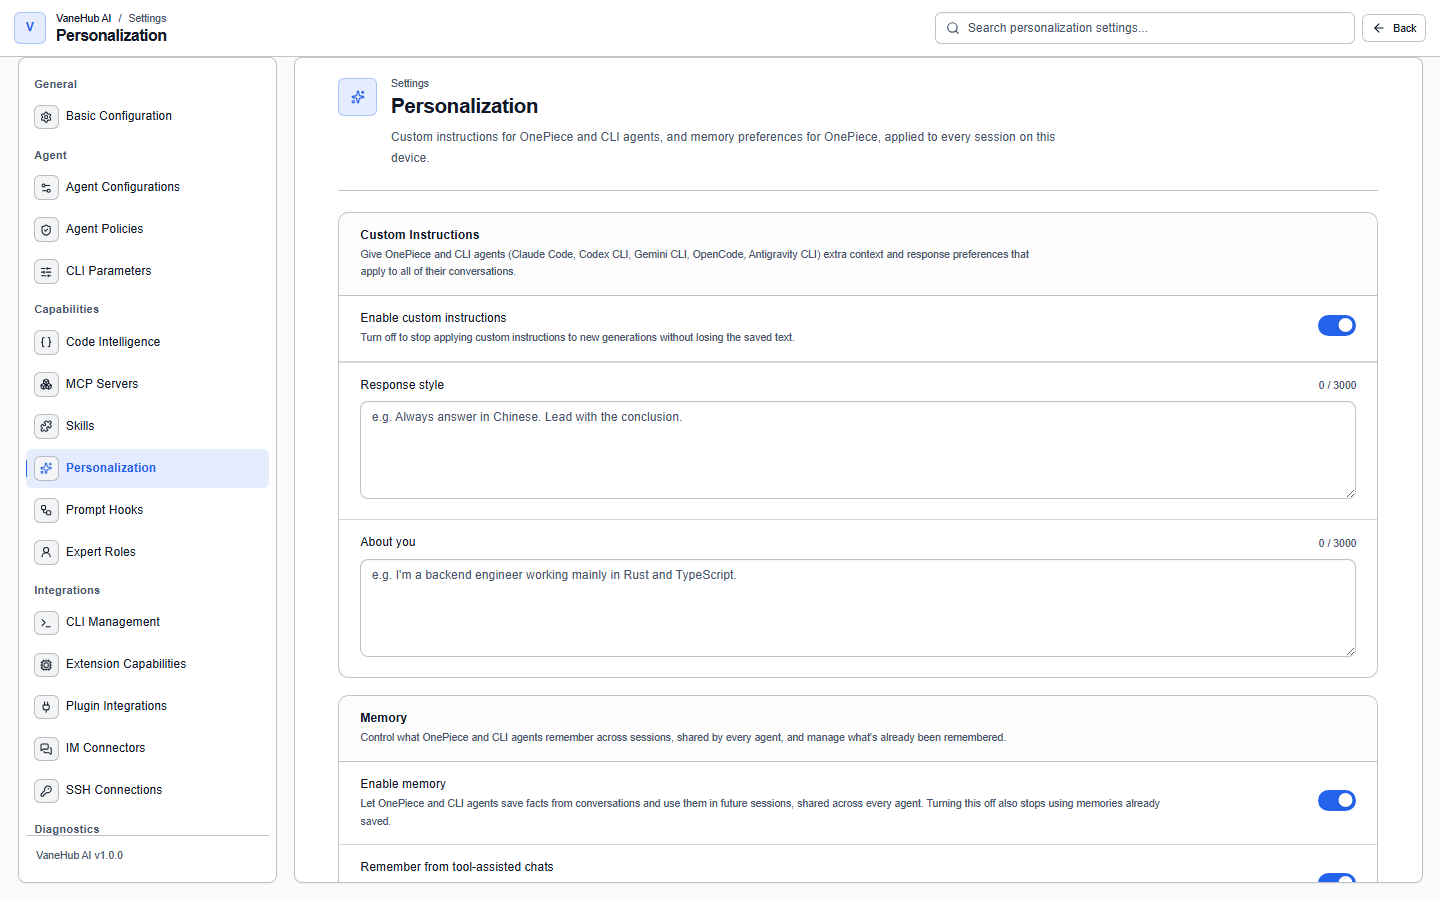
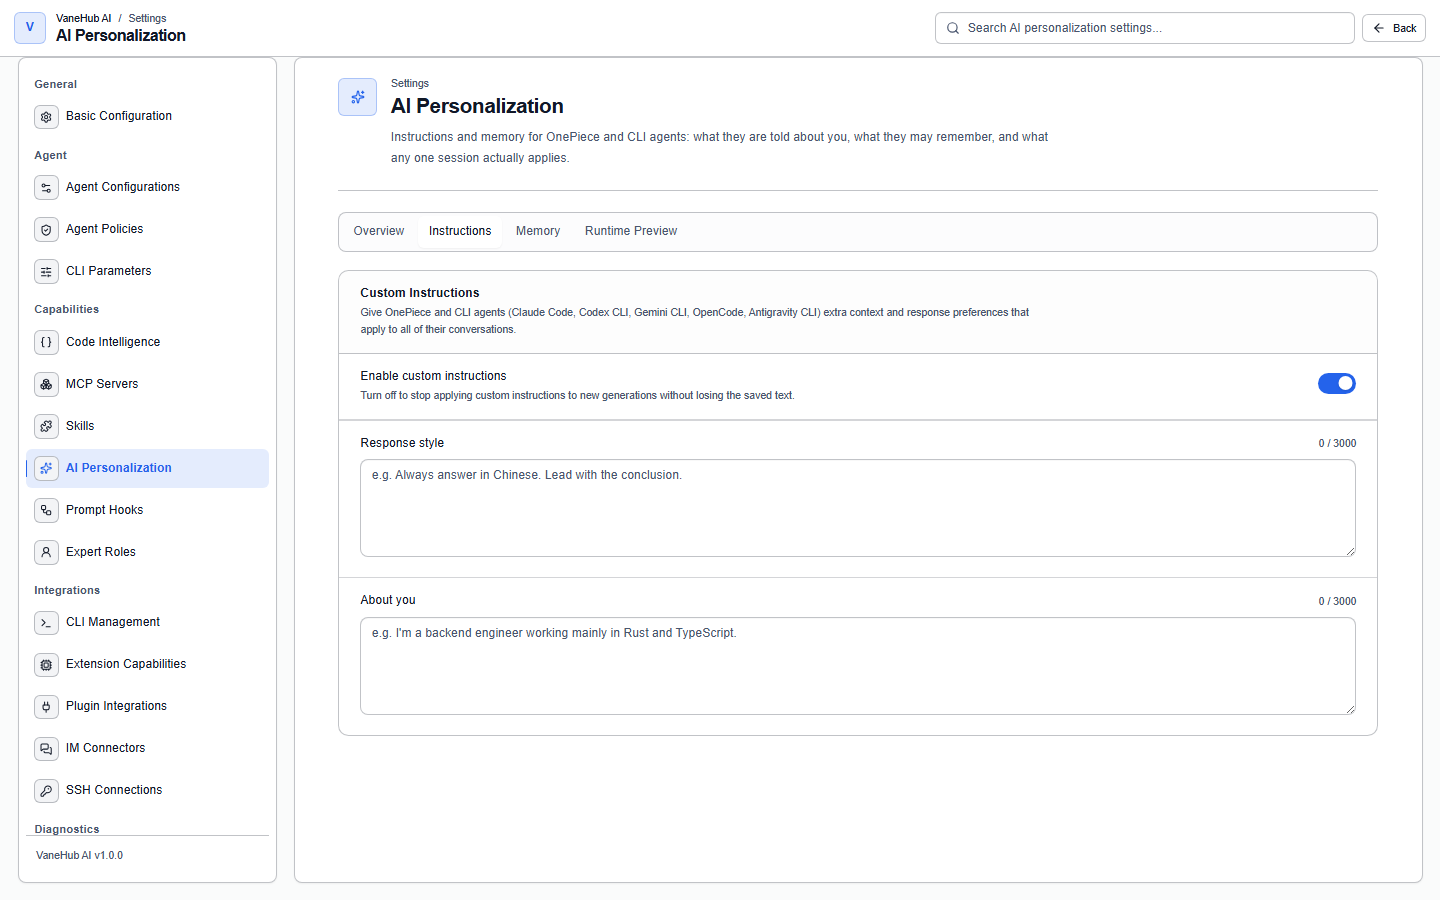
feat(personalization): rename the destination to AI Personalization and split it into four views
Overview, Instructions, Memory, and Runtime Preview, on the same tablist the
OnePiece configuration panel uses -- two switchers that look alike but behave
differently is worse than one that is plain. Only the selected view mounts:
Memory issues its own queries, and keeping all four mounted would fetch on
every visit regardless of what the user opened.

Instructions and Memory hold the sections that already existed. Overview and
Runtime Preview state what belongs in them and nothing more. Task 10.3 fills
Overview and 11.8 fills Runtime Preview; rendering a card built from data the
page does not load, or a preview for an Agent nobody selected, would show a
resolution no session ever had.

The rename reaches further than the label. Five locales, three settings e2e
specs, the docs screenshot scenario, and four user-guide chapters name the
destination the user clicks, and all of them move together. Navigation paths
change; chapter titles and cross-links keep saying "Personalization", because
that is the chapter's name and not something anyone clicks.

Two documentation screenshots are regenerated -- the page now opens on
Overview, so the capture explicitly opens Instructions to stay about what the
surrounding chapter describes. A full regeneration rewrote 35 images; 33 of
them only differed below the 1000-pixel tolerance the check already accepts, so
those are reverted rather than committed. Committing them would have passed CI
[…]

diff --git a/tests/e2e/personalization-settings.spec.ts b/tests/e2e/personalization-settings.spec.ts
@@ -10,6 +10,11 @@ async function waitForPersistedSetting(page: Page, needle: string) {
   );
 }
 
+/** The page opens on Overview, so every test names the destination it is about. */
+async function openView(page: Page, view: "overview" | "instructions" | "memory" | "runtimePreview") {
+  await page.getByTestId(`personalization-view-tab-${view}`).click();
+}
+
 test.describe("Personalization settings", () => {
   test.beforeEach(async ({ page }) => {
     // Merge rather than overwrite: `addInitScript` re-runs on every navigation, including
@@ -21,24 +26,27 @@ test.describe("Personalization settings", () => {
       window.localStorage.setItem("vanehub.appSettings", JSON.stringify({ ...existing, applicationLanguage: "en" }));
     });
     await page.goto("/settings");
-    await page.getByRole("button", { name: "Personalization", exact: true }).click();
+    await page.getByRole("button", { name: "AI Personalization", exact: true }).click();
   });
 
   test("renders the custom instructions and memory sections", async ({ page }) => {
-    await expect(page.getByRole("heading", { name: "Personalization", exact: true, level: 2 })).toBeVisible();
-    await expect(page.getByRole("heading", { name: "Custom Instructions", exact: true, level: 3 })).toBeVisible();
-    await expect(page.getByRole("heading", { name: "Memory", exact: true, level: 3 })).toBeVisible();
+    await expect(page.getByRole("heading", { name: "AI Personalization", exact: true, level: 2 })).toBeVisible();
 
+    await openView(page, "instructions");
+    await expect(page.getByRole("heading", { name: "Custom Instructions", exact: true, level: 3 })).toBeVisible();
     await expect(page.getByRole("textbox", { name: "Response style" })).toBeVisible();
     await expect(page.getByRole("textbox", { name: "About you" })).toBeVisible();
     await expect(page.getByRole("switch", { name: "Enable custom instructions" })).toHaveAttribute("aria-checked", "true");
 
+    await openView(page, "memory");
+    await expect(page.getByRole("heading", { name: "Memory", exact: true, level: 3 })).toBeVisible();
     await expect(page.getByRole("switch", { name: "Enable memory" })).toHaveAttribute("aria-checked", "true");
     await expect(page.getByRole("switch", { name: "Remember from tool-assisted chats" })).toHaveAttribute("aria-checked", "true");
     await expect(page.getByText("No memories saved yet.")).toBeVisible();
   });
 
   test("saves custom instructions on blur, persists across reload, and rejects an oversized value", async ({ page }) => {
+    await openView(page, "instructions");
     const styleField = page.getByRole("textbox", { name: "Response style" });
     await styleField.fill("Always answer in Chinese.");
     await styleField.blur();
@@ -46,7 +54,8 @@ test.describe("Personalization settings", () => {
     await waitForPersistedSetting(page, "Always answer in Chinese.");
 
     await page.reload();
-    await page.getByRole("button", { name: "Personalization", exact: true }).click();
+    await page.getByRole("button", { name: "AI Personalization", exact: true }).click();
+    await openView(page, "instructions");
     await expect(page.getByRole("textbox", { name: "Response style" })).toHaveValue("Always answer in Chinese.");
 
     const overLimitField = page.getByRole("textbox", { name: "About you" });
@@ -55,11 +64,13 @@ test.describe("Personalization settings", () => {
     await overLimitField.blur();
 
     await page.reload();
-    await page.getByRole("button", { name: "Personalization", exact: true }).click();
+    await page.getByRole("button", { name: "AI Personalization", exact: true }).click();
+    await openView(page, "instructions");
     await expect(page.getByRole("textbox", { name: "About you" })).toHaveValue("");
   });
 
   test("disables both custom instructions fields when the enable toggle is off", async ({ page }) => {
+    await openView(page, "instructions");
     const toggle = page.getByRole("switch", { name: "Enable custom instructions" });
     await toggle.click();
     await expect(toggle).toHaveAttribute("aria-checked", "false");
@@ -68,6 +79,7 @@ test.describe("Personalization settings", () => {
   });
 
   test("disables the tool-assisted sub-toggle when the memory master toggle is off", async ({ page }) => {
+    await openView(page, "memory");
     const memoryToggle = page.getByRole("switch", { name: "Enable memory" });
     const subToggle = page.getByRole("switch", { name: "Remember from tool-assisted chats" });
     await expect(subToggle).toBeEnabled();

diff --git a/src/settings/pages/personalization-page.test.tsx b/src/settings/pages/personalization-page.test.tsx
@@ -1,0 +1,79 @@
+// @vitest-environment jsdom
+
+import { screen, waitFor } from "@testing-library/react";
+import userEvent from "@testing-library/user-event";
+import { beforeEach, describe, expect, it } from "vitest";
+import "../../i18n";
+import { renderWithAppProviders } from "../../test/render";
+import { SettingsProvider } from "../settings-provider";
+import { PersonalizationPage } from "./personalization-page";
+
+/** `SettingsProvider` renders nothing until settings load, so every test waits for the shell. */
+async function renderPage() {
+  const rendered = renderWithAppProviders(
+    <SettingsProvider>
+      <PersonalizationPage />
+    </SettingsProvider>,
+  );
+  await screen.findByRole("tablist");
+  return rendered;
+}
+
+describe("PersonalizationPage", () => {
+  beforeEach(() => {
+    window.localStorage.clear();
+  });
+
+  it("offers all four destinations", async () => {
+    await renderPage();
+
+    for (const view of ["overview", "instructions", "memory", "runtimePreview"]) {
+      expect(screen.getByTestId(`personalization-view-tab-${view}`)).toBeTruthy();
+    }
+  });
+
+  it("opens on Overview", async () => {
+    await renderPage();
+
+    expect(screen.getByTestId("personalization-view-tab-overview").getAttribute("aria-selected")).toBe("true");
+    expect(screen.getByTestId("personalization-overview-empty")).toBeTruthy();
+  });
+
+  it("mounts only the selected view", async () => {
+    await renderPage();
+
+    // The Memory view issues its own queries; leaving every view mounted would fetch on each
+    // visit to the page regardless of which destination the user opened.
+    expect(screen.queryByTestId("personalization-runtime-preview-empty")).toBeNull();
+
+    await userEvent.click(screen.getByTestId("personalization-view-tab-runtimePreview"));
+
+    await waitFor(() => {
+      expect(screen.getByTestId("personalization-runtime-preview-empty")).toBeTruthy();
+    });
+    expect(screen.queryByTestId("personalization-overview-empty")).toBeNull();
+  });
+
+  it("marks the selected destination for assistive technology", async () => {
+    await renderPage();
+
+    await userEvent.click(screen.getByTestId("personalization-view-tab-memory"));
+
+    await waitFor(() => {
+      expect(screen.getByTestId("personalization-view-tab-memory").getAttribute("aria-selected")).toBe("true");
+    });
+    expect(screen.getByTestId("personalization-view-tab-overview").getAttribute("aria-selected")).toBe("false");
+  });
+
+  it("says plainly that a CLI's own compaction is not VaneHub's to manage", async () => {
+    await renderPage();
+
+    await userEvent.click(screen.getByTestId("personalization-view-tab-runtimePreview"));
+
+    // A preview that stayed silent about this would leave a user believing the estimate covers
+    // their whole session.
+    await waitFor(() => {
+      expect(screen.getByText(/VaneHub/u)).toBeTruthy();
+    });
+  });
+});

diff --git a/src/settings/pages/personalization-page.tsx b/src/settings/pages/personalization-page.tsx
@@ -1,21 +1,31 @@
 import { Sparkles } from "lucide-react";
+import { useState } from "react";
 import { useTranslation } from "react-i18next";
 import { useSettings } from "../settings-provider";
 import { PageHeader } from "./page-parts";
-import { CustomInstructionsSection } from "./personalization/custom-instructions-section";
 import { AgentMemorySection } from "./personalization/agent-memory-section";
+import { CustomInstructionsSection } from "./personalization/custom-instructions-section";
+import { PersonalizationOverviewSection } from "./personalization/overview-section";
+import { RuntimePreviewSection } from "./personalization/runtime-preview-section";
+import { PersonalizationViewTabs, type PersonalizationView } from "./personalization/view-tabs";
 
 export function PersonalizationPage() {
   const { t } = useTranslation();
   const { error } = useSettings();
+  const [view, setView] = useState<PersonalizationView>("overview");
 
   return (
     <div className="mx-auto max-w-[1040px] space-y-5 pb-8">
       <PageHeader description={t("personalization.description")} icon={Sparkles} title={t("personalization.title")} />
       {error ? <div className="rounded-md border p-3 text-sm ucd-status-danger" role="alert">{error}</div> : null}
+      <PersonalizationViewTabs onSelect={setView} view={view} />
+      {/* Only the selected view mounts: the Memory view issues its own queries, and keeping all
+          four mounted would fetch on every visit to the page regardless of what the user opened. */}
       <div className="grid gap-5">
-        <CustomInstructionsSection />
-        <AgentMemorySection />
+        {view === "overview" ? <PersonalizationOverviewSection /> : null}
+        {view === "instructions" ? <CustomInstructionsSection /> : null}
+        {view === "memory" ? <AgentMemorySection /> : null}
+        {view === "runtimePreview" ? <RuntimePreviewSection /> : null}
       </div>
     </div>
   );

diff --git a/src/settings/pages/personalization/view-tabs.tsx b/src/settings/pages/personalization/view-tabs.tsx
@@ -1,0 +1,43 @@
+import { useTranslation } from "react-i18next";
+
+export const personalizationViews = ["overview", "instructions", "memory", "runtimePreview"] as const;
+
+export type PersonalizationView = (typeof personalizationViews)[number];
+
+/**
+ * The four destinations inside AI Personalization.
+ *
+ * Deliberately the same tablist the OnePiece configuration panel uses rather than a new primitive:
+ * two switchers that look alike but behave differently is worse than one that is plain.
+ */
+export function PersonalizationViewTabs({
+  onSelect,
+  view,
+}: {
+  onSelect: (view: PersonalizationView) => void;
+  view: PersonalizationView;
+}) {
+  const { t } = useTranslation();
+
+  return (
+    <div
+      aria-label={t("personalization.views.label")}
+      className="flex max-w-full gap-1 overflow-x-auto rounded-lg border border-border bg-muted/25 p-1"
+      role="tablist"
+    >
+      {personalizationViews.map((candidate) => (
+        <button
+          aria-selected={view === candidate}
+          className={`min-h-9 whitespace-nowrap rounded-md px-3 text-sm font-medium transition-colors ${view === candidate ? "bg-background text-foreground shadow-xs" : "text-muted-foreground hover:bg-background/70 hover:text-foreground"}`}
+          data-testid={`personalization-view-tab-${candidate}`}
+          key={candidate}
+          onClick={() => onSelect(candidate)}
+          role="tab"
+          type="button"
+        >
+          {t(`personalization.views.${candidate}`)}
+        </button>
+      ))}
+    </div>
+  );
+}

diff --git a/src/settings/pages/personalization/runtime-preview-section.tsx b/src/settings/pages/personalization/runtime-preview-section.tsx
@@ -1,0 +1,30 @@
+import { Eye } from "lucide-react";
+import { useTranslation } from "react-i18next";
+import { SectionPanel } from "../page-parts";
+
+/**
+ * The Runtime Preview destination.
+ *
+ * Task 10.1 establishes the destination; task 11.8 adds the Agent, workspace and session-mode
+ * inputs and the provenance/exclusion output. A preview needs a selection to be about, and the
+ * selection controls arrive with it -- rendering one for a guessed Agent would show a resolution
+ * no session ever had.
+ */
+export function RuntimePreviewSection() {
+  const { t } = useTranslation();
+
+  return (
+    <SectionPanel
+      description={t("personalization.runtimePreview.description")}
+      icon={Eye}
+      title={t("personalization.runtimePreview.title")}
+    >
+      <p className="text-sm leading-6 text-muted-foreground" data-testid="personalization-runtime-preview-empty">
+        {t("personalization.runtimePreview.empty")}
+      </p>
+      <p className="mt-3 text-xs leading-5 text-muted-foreground">
+        {t("personalization.runtimePreview.cliCompaction")}
+      </p>
+    </SectionPanel>
+  );
+}

diff --git a/src/settings/pages/personalization/overview-section.tsx b/src/settings/pages/personalization/overview-section.tsx
@@ -1,0 +1,27 @@
+import { LayoutGrid } from "lucide-react";
+import { useTranslation } from "react-i18next";
+import { SectionPanel } from "../page-parts";
+
+/**
+ * The Overview destination.
+ *
+ * Task 10.1 establishes the destination; task 10.3 fills it with the effective-source cards and the
+ * dynamic Agent list, and task 11.7 adds maintenance and health. Until then it states what belongs
+ * here rather than rendering a card built from data the page does not yet load -- an Overview that
+ * showed a number nothing computed would be worse than one that is honestly empty.
+ */
+export function PersonalizationOverviewSection() {
+  const { t } = useTranslation();
+
+  return (
+    <SectionPanel
+      description={t("personalization.overview.description")}
+      icon={LayoutGrid}
+      title={t("personalization.overview.title")}
+    >
+      <p className="text-sm leading-6 text-muted-foreground" data-testid="personalization-overview-empty">
+        {t("personalization.overview.empty")}
+      </p>
+    </SectionPanel>
+  );
+}

diff --git a/tests/docs/documentation-screenshots.spec.ts b/tests/docs/documentation-screenshots.spec.ts
@@ -226,8 +226,23 @@ const scenarios: Record<string, (page: Page, locale: Locale) => Promise<Locator>
     return shell;
   },
 
-  "settings-personalization": (page, locale) =>
-    openSettings(page, "personalization", text(locale, "个性化", "Personalization")),
+  "settings-personalization": async (page, locale) => {
+    const shell = await openSettings(
+      page,
+      "personalization",
+      text(locale, "AI 个性化", "AI Personalization"),
+    );
+    // The page opens on Overview; the surrounding chapter is about the instruction fields, so the
+    // capture has to be of the destination the prose describes.
+    await shell.getByTestId("personalization-view-tab-instructions").click();
+    await expect(
+      shell.getByRole("heading", {
+        level: 3,
+        name: text(locale, "自定义指令", "Custom Instructions"),
+      }),
+    ).toBeVisible();
+    return shell;
+  },
 
   "settings-expert-roles": (page, locale) =>
     openSettings(page, "expert-roles", text(locale, "专家角色", "Expert roles")),

diff --git a/tests/e2e/settings-navigation-order.spec.ts b/tests/e2e/settings-navigation-order.spec.ts
@@ -12,7 +12,7 @@ test("orders Settings destinations around common setup and customization workflo
     "代码智能",
     "MCP 服务器",
     "Skill 管理",
-    "个性化",
+    "AI 个性化",
     "Prompt Hook",
     "专家角色",
     "CLI 管理",

diff --git a/docs/user-guide/en/src/user-interface.md b/docs/user-guide/en/src/user-interface.md
@@ -155,7 +155,7 @@ When you reopen a session after a crash or an abnormal exit, a **recovery banner
 | **Agent Configurations** | Provider, endpoint, and model per Agent, including OnePiece — see [Tools and extensions](tooling.md#agent-configurations) |
 | **Agent Policies** | Permission policy and approval templates — see [Permission approvals](permissions.md) |
 | **Expert Roles** | Role fields, responsibilities, and review policy — see [Expert roles](expert-roles.md) |
-| **Personalization** | Custom instructions and cross-session memory — see [Personalization](personalization.md) |
+| **AI Personalization** | Overview, Instructions, Memory, and Runtime Preview — see [Personalization](personalization.md) |
 | **Skills** | Skill installation and binding — see [Manage Skills](skill-management.md) |
 | **Prompt Hooks** | Hook management — see [Prompt Hooks](prompt-hooks.md) |
 | **IM Connectors** | IM connector configuration — see [Remote and IM](remote-and-im.md#im-connectors) |

diff --git a/openspec/changes/add-unified-personalization-governance/tasks.md b/openspec/changes/add-unified-personalization-governance/tasks.md
@@ -110,7 +110,7 @@
 
 ## 10. AI Personalization Settings UI
 
-- [ ] 10.1 Rename the settings destination to localized **AI Personalization** and add Overview, Instructions, Memory, and Runtime Preview views using the existing settings navigation/design primitives.
+- [x] 10.1 Rename the settings destination to localized **AI Personalization** and add Overview, Instructions, Memory, and Runtime Preview views using the existing settings navigation/design primitives.
 - [ ] 10.2 Build a page presentation model that separates query state, scope selection, drafts, pending mutations, conflict state, and maintenance state.
 - [ ] 10.3 Implement Overview cards and a compact dynamic Agent list showing effective source, capability, final instruction state, memory read state, and extraction state.
 - [ ] 10.4 Implement global, Agent, workspace, and workspace-Agent scope selection without hard-coded Agent checkboxes.

diff --git a/docs/user-guide/en/src/personalization.md b/docs/user-guide/en/src/personalization.md
@@ -10,7 +10,7 @@ Three layers cover different ground: **Custom Instructions** (written by hand), 
 
 ## Custom Instructions
 
-Fill in two fields under **Settings → Personalization → Custom Instructions**:
+Fill in two fields under **Settings → AI Personalization → Instructions → Custom Instructions**:
 
 | Field | What to write | Limit |
 | --- | --- | --- |
@@ -21,7 +21,7 @@ For example, put "Always answer in Chinese. Lead with the conclusion." under **R
 
 The **Enable custom instructions** switch turns injection off entirely — **new sessions stop applying it, and what you saved is not lost**.
 
-![The Personalization settings page showing the custom instructions and memory sections](assets/screenshots/personalization-en.png)
+![The Instructions view of the AI Personalization settings page](assets/screenshots/personalization-en.png)
 
 ## Agent memory
 

diff --git a/docs/user-guide/zh-CN/src/user-interface.md b/docs/user-guide/zh-CN/src/user-interface.md
@@ -151,7 +151,7 @@ Agent 回复支持富内容渲染：代码块（语法高亮）、Mermaid 图（
 | **Agent 配置** | 按 Agent 配置 provider、端点与模型（含 OnePiece），见 [工具与扩展](tooling.md#agent-配置) |
 | **Agent 权限策略** | 权限策略与审批模板，见 [权限审批](permissions.md) |
 | **专家角色** | 角色与评审策略，见 [专家角色](expert-roles.md) |
-| **个性化** | Custom Instructions 与跨会话记忆，见 [个性化](personalization.md) |
+| **AI 个性化** | Custom Instructions 与跨会话记忆，见 [个性化](personalization.md) |
 | **Skill 管理** | Skill 安装与绑定，见 [Skill 管理](skill-management.md) |
 | **Prompt Hook** | 钩子管理，见 [Prompt Hook](prompt-hooks.md) |
 | **IM 能力** | IM 连接器配置，见 [远程与 IM](remote-and-im.md#im-连接器) |
